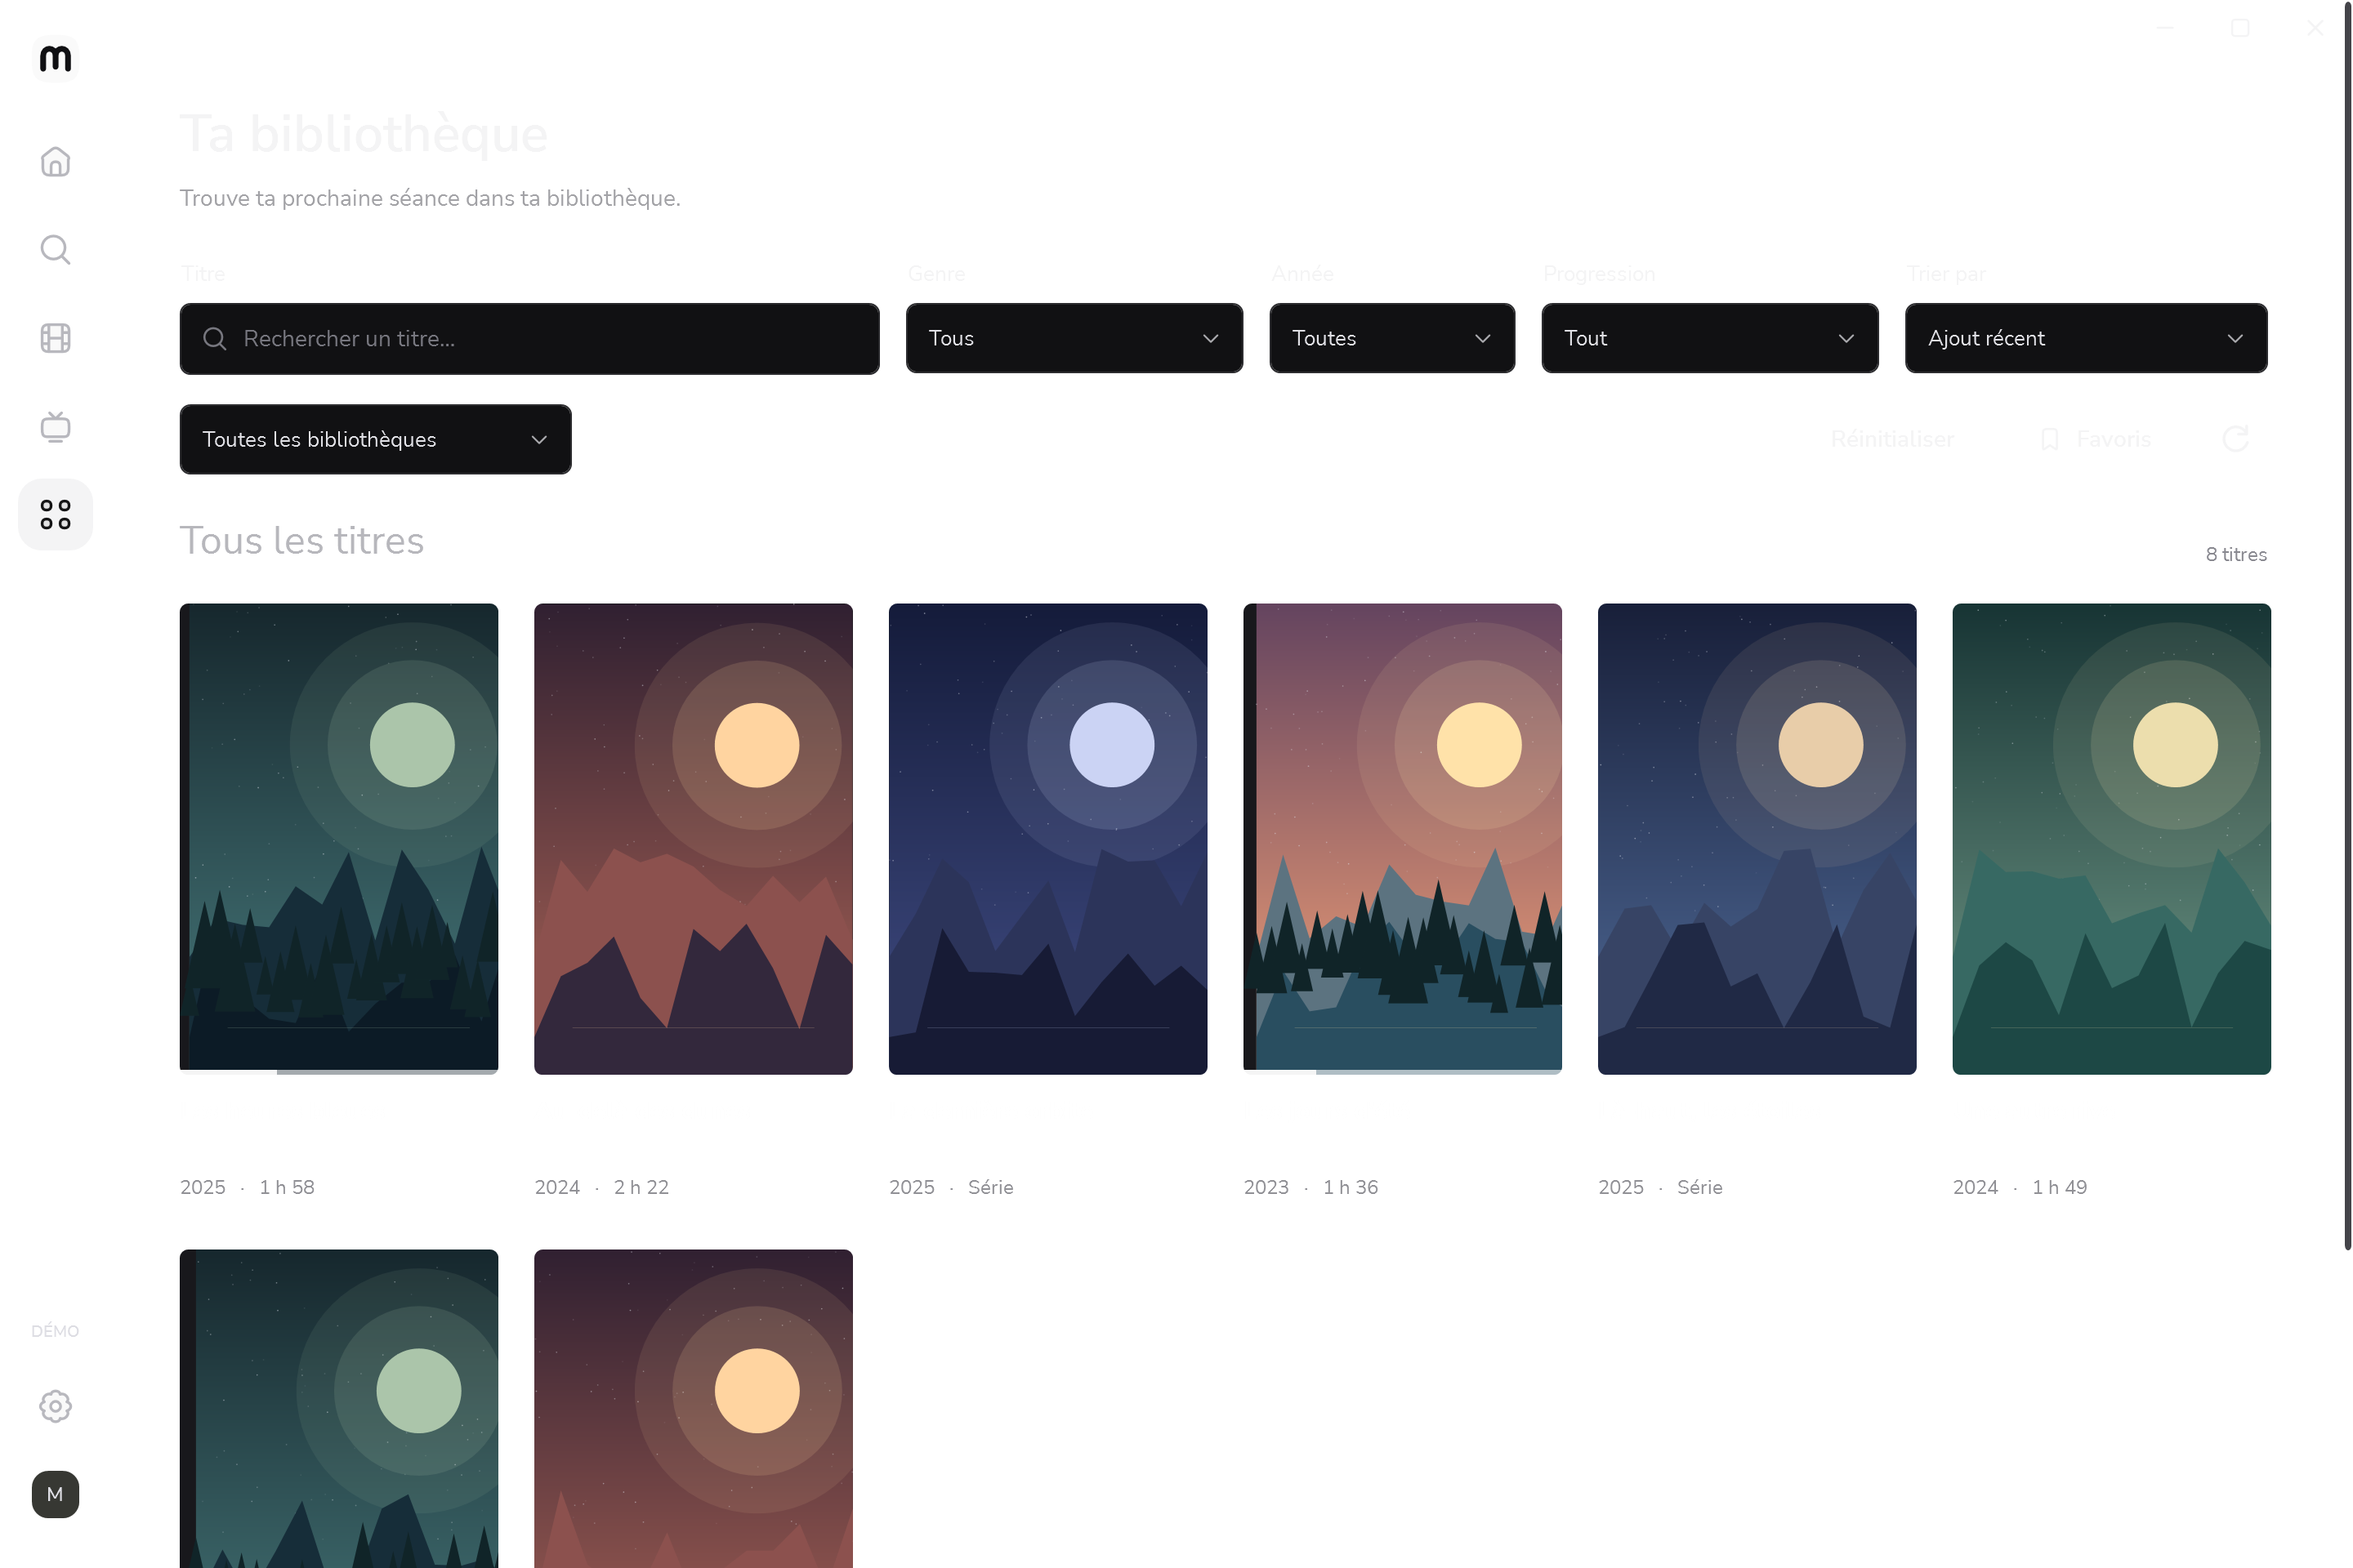
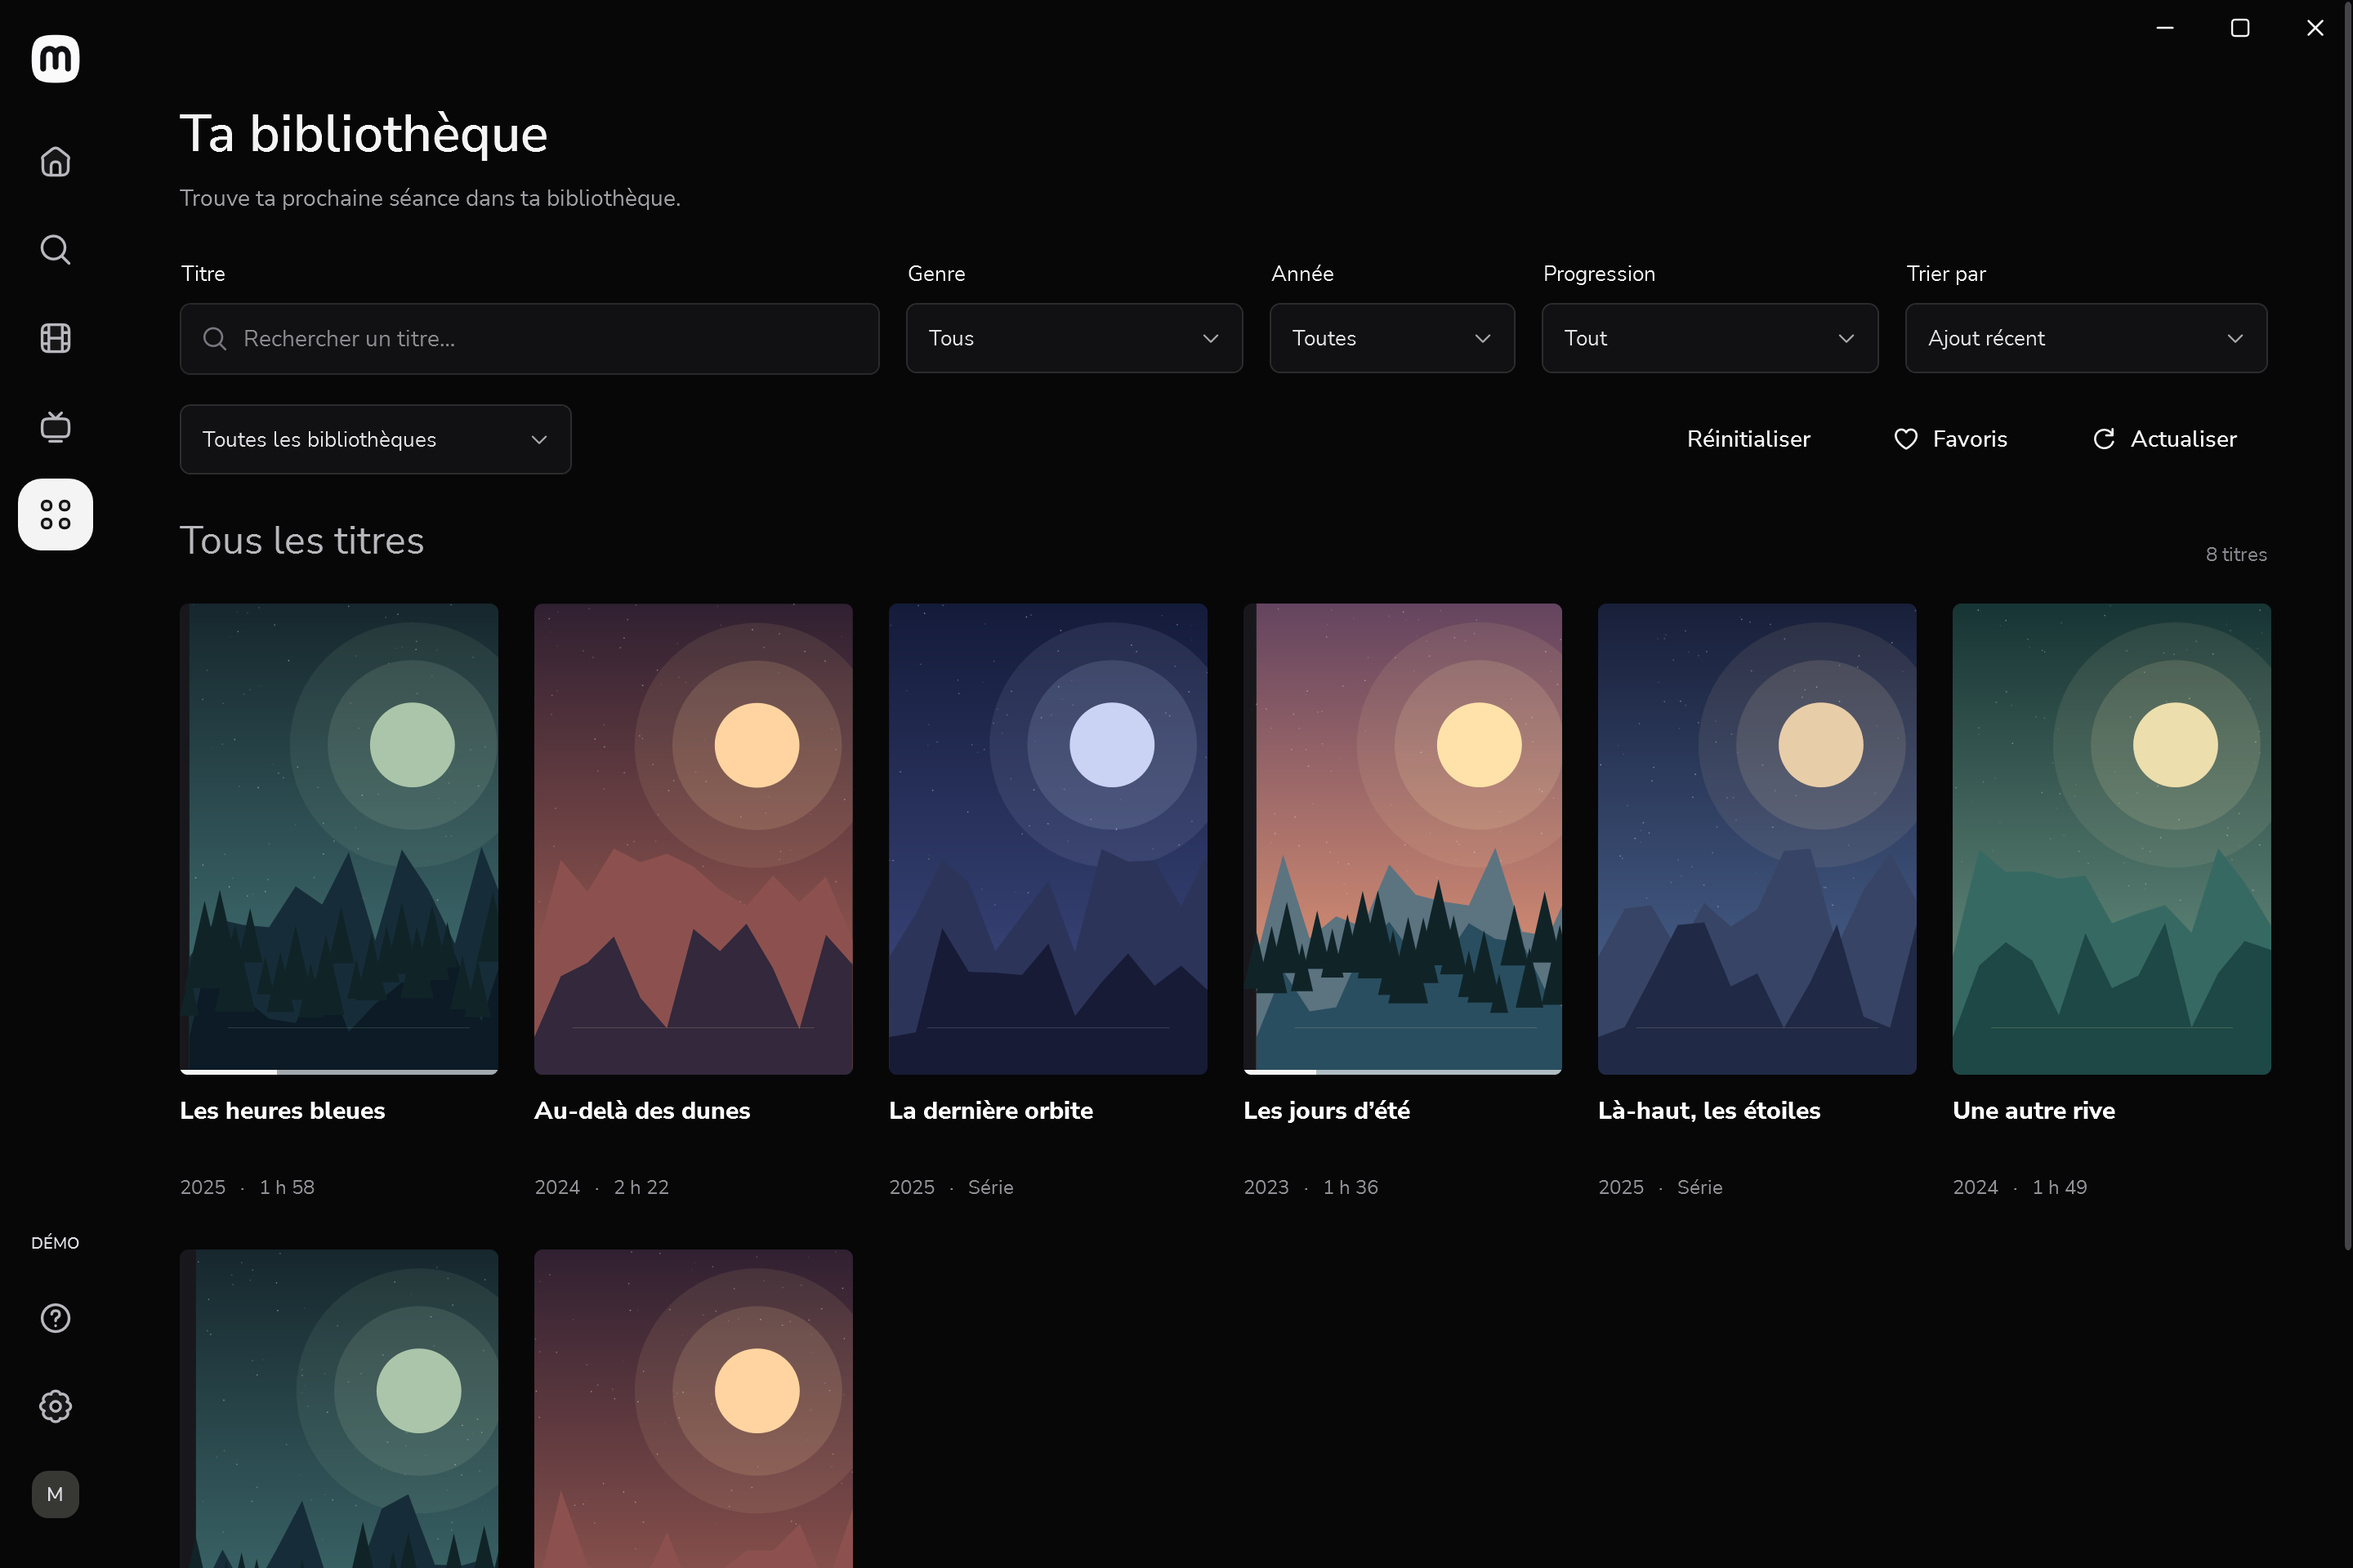
Refresh the gallery screenshots for 0.7.5
Captured on Windows by tools/capture-gallery.ps1 from the demo catalog.

Claude-Session: https://claude.ai/code/session_01R4ybEYU3S1NxBAdmw6iWA6

diff --git a/CLAUDE.md b/CLAUDE.md
@@ -112,7 +112,7 @@ Android, servie par le serveur Jellyfin lui-même. Pour un particulier qui regar
 - `licenses/DOTNET-THIRD-PARTY-NOTICES.txt` = celui de `microsoft.netcore.app.runtime.win-x64` de la version embarquée (LF).
 
 ## État actuel
-- Publiées : 0.7.3 (2026-10-10, `9248e03`, retours du 3e essai sur iPhone, détails dans `docs/VALIDATION.md`) et 0.7.4 (2026-10-10, `066d1ae`, « Mira sur ton téléphone » et « Tout préparer », dernière pour macOS 14). 0.7.5 préparée le 2026-10-11 (version, `WhatsNew.json`, CHANGELOG daté, liens) : la revue corrigée ; elle exige macOS 15, et pour publier le SDK .NET 10 et les releases immuables. Mesure de la 0.7.4 sur le PC de l'utilisateur (Accueil, au repos, 60 s) : CPU 0,05 % d'un cœur, 375 Mo privés, 0 octet écrit ; à refaire sur la 0.7.5.
+- Publiées : 0.7.3 (2026-10-10, `9248e03`, retours du 3e essai sur iPhone, détails dans `docs/VALIDATION.md`) et 0.7.4 (2026-10-10, `066d1ae`, « Mira sur ton téléphone » et « Tout préparer », dernière pour macOS 14). 0.7.5 (2026-10-11, `694ff98`, la revue corrigée, première pour macOS 15, première release immuable). Mesure de la 0.7.4 sur le PC de l'utilisateur (Accueil, au repos, 60 s) : CPU 0,05 % d'un cœur, 375 Mo privés, 0 octet écrit ; à refaire sur la 0.7.5.
 - Non vérifié sur un vrai iPhone : titres qui échouaient chez l'utilisateur (lui demander l'erreur et les infos du média), cascade et fondu sous iOS 27, barre du bas dans Recherche, sous-titres d'un vrai animé, ouverture PC éteint. Sur un vrai PC : « Tout préparer » (autorisation, pare-feu, service, chez l'ami aussi), Narrateur, Snap Layouts, réglages d'animation et de texte (Windows 11), mesures RAM/CPU du lot 8.
-- Revue du 2026-10-10 (`REVIEW.md`, 82 problèmes, 0 P0/P1, plan en 11 lots), feu vert le 2026-10-10 : une PR par lot depuis `review/fixes-zl287w`, fusionnée en vert. Les 11 lots sont fusionnés (PR #27, #30 à #39, dernier le 2026-10-11). Restes : UX-04 en partie (pas d'écran d'erreur dans le lecteur) ; QUA-01, QUA-02, QUA-06, UX-07 en partie ; SEC-09 (signature) au choix de l'utilisateur ; l'offre écrite de sources GPL du `.dmg` (`THIRD_PARTY_NOTICES.md`) engage sasou-web ; captures `docs/screenshots` à refaire sur Windows (`tools/capture-gallery.ps1`). Les `fichier:ligne` de `REVIEW.md` datent d'avant les lots 3 à 5 et la PR #26.
+- Revue du 2026-10-10 (`REVIEW.md`, 82 problèmes, 0 P0/P1, plan en 11 lots), feu vert le 2026-10-10 : une PR par lot depuis `review/fixes-zl287w`, fusionnée en vert. Les 11 lots sont fusionnés (PR #27, #30 à #39, dernier le 2026-10-11). Restes : UX-04 en partie (pas d'écran d'erreur dans le lecteur) ; QUA-01, QUA-02, QUA-06, UX-07 en partie ; SEC-09 (signature) au choix de l'utilisateur ; l'offre écrite de sources GPL du `.dmg` (`THIRD_PARTY_NOTICES.md`) engage sasou-web ; galerie `docs/screenshots` refaite en 0.7.5 (`tools/capture-gallery.ps1`, démo) ; les `readme-*.jpg` viennent de la vraie bibliothèque de l'utilisateur, pas de la démo. Les `fichier:ligne` de `REVIEW.md` datent d'avant les lots 3 à 5 et la PR #26.
 - L'utilisateur veut que je fasse tout ce que je peux moi-même (fusion des PR comprise) et ne lui laisse que ce qui exige son PC, son serveur ou son iPhone.

diff --git a/docs/SCREENSHOTS.md b/docs/SCREENSHOTS.md
@@ -1,4 +1,4 @@
-# Galerie de Mira 0.4.9
+# Galerie de Mira 0.7.5
 
 Ces **14 captures** sont rendues par l’application WPF réelle à partir de son catalogue fictif intégré. Elles ne contiennent ni compte personnel, ni historique réel, ni médias fournis par Jellyfin. Les illustrations vectorielles appartiennent à la démonstration ; avec un serveur connecté, les affiches et les fonds viennent de ta bibliothèque.
 
